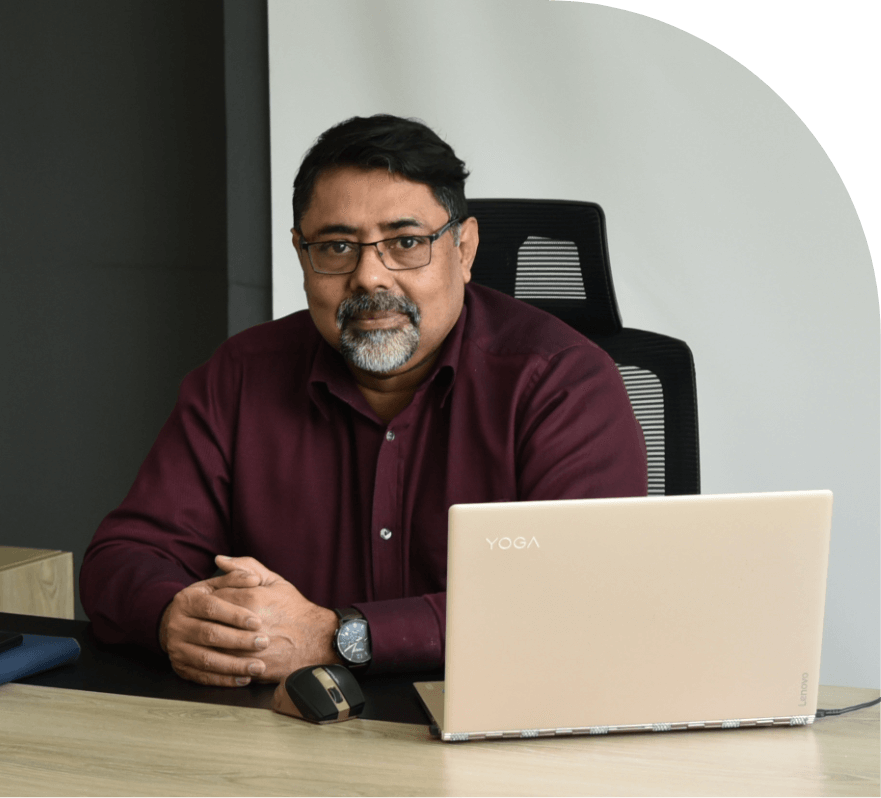
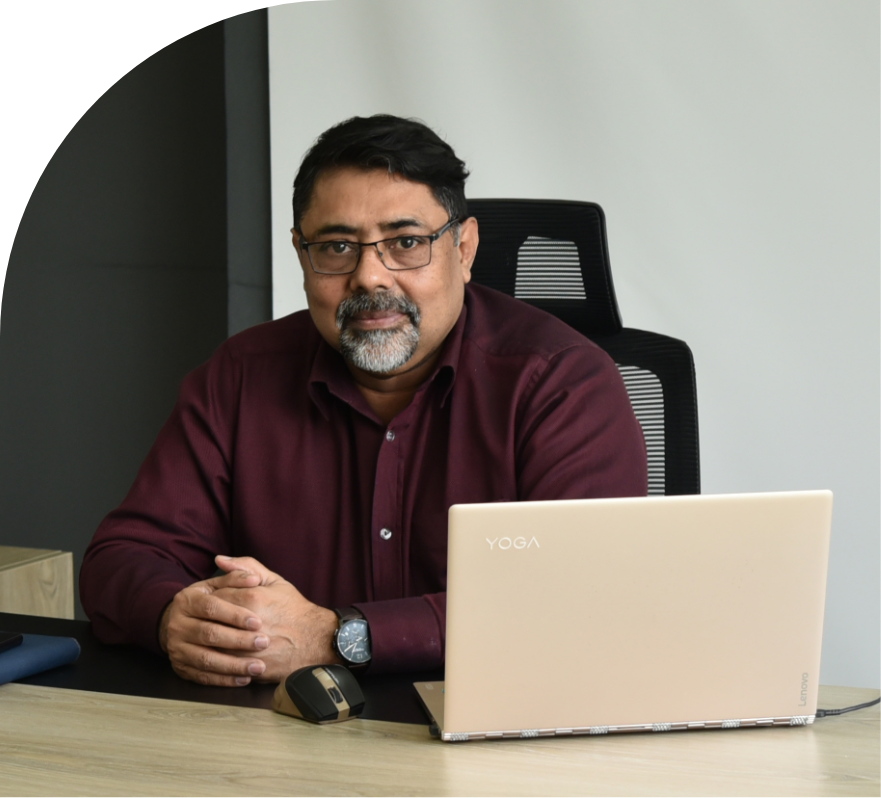
hello

Changed region(s): [[0.6742, 0.0, 1.0, 0.391], [0.0, 0.0, 0.3371, 0.3609]]

diff --git a/index.html b/index.html
@@ -140,13 +140,84 @@
             </div>
         </div>
     </section>
+    
     <!-- video section -->
-    <section class="kalyan-video">
+    <!-- <section class="kalyan-video">
         <div class="kalyan-video-container">
             <iframe width="100%" height="100%" src="https://www.youtube.com/embed/_xch3Ui_RIw?rel=0" title="GRAMEEN Kalyan Healthcare" frameborder="0" allow="accelerometer; autoplay; clipboard-write; encrypted-media; gyroscope; picture-in-picture" allowfullscreen></iframe> 
         </div>
+    </section> -->
+    
+    <!-- people -->
+    <section class="people-section">
+        <!-- people leaf -->
+        <div class="people-leaf">
+            <img src="./assets/people-leaf.png" alt="people-leaf">
+        </div>
+        <!-- people yunus -->
+        <div class="people-yunus-container">
+            <div class="row flex-lg-row flex-column-reverse">
+                <div class="col-lg-6">
+                    <div class="yunus-content">
+                        <!-- <div>
+                            <h2 data-aos="fade-up" data-aos-anchor-placement="bottom-bottom" data-aos-duration="500">The Vision for Healthier Tomorrow</h2>
+                        </div> -->
+                        <div class="yunus-content-details speech-triangle" data-aos="fade-up" data-aos-anchor-placement="bottom-bottom" data-aos-duration="500">
+                            <!-- <p>We are on a mission to serve the low-income population with better quality and maximum convenience.
+                                Grameen Kalyan provides a one-of-a-kind solution that operates in community-based health centres in hard
+                                to access rural areas. Currently, 140 health centres are active in 30 districts across Bangladesh and
+                                serving more than 7.8 million people annually. We proudly celebrate 25 years of our glorious journey and
+                                aim to expand with improved quality of services and grow exponentially.</p> -->
+                            <p>গ্রামীণ অঞ্চলের প্রান্তিক জনগোষ্ঠীর প্রাথমিক স্বাস্থ্যসেবায় সুদূরপ্রসারী পরিবর্তন আনতে রোগ নির্ণয়, চিকিৎসা ব্যবস্থাপনা, তথ্য প্রযুক্তির যথাযথ প্রয়োগ এবং সারা দেশে সাশ্রয়ী মূল্যে মানসম্পন্ন সেবা প্রদান করাই গ্রামীণ কল্যাণ-এর অঙ্গীকার।</p>
+                        </div>
+                        <div class="yunus-designation" data-aos="fade-up" data-aos-anchor-placement="bottom-bottom" data-aos-duration="900">
+                            <h6>Professor Muhammad Yunus</h6>
+                            <small>2006 Nobel Peace Laureate</small>
+                        </div>
+                        <!-- <div class="yunus-btn" data-aos="fade-up" data-aos-anchor-placement="bottom-bottom" data-aos-duration="900">
+                            <button>read more</button>
+                        </div> -->
+                    </div>
+                </div>
+                <div class="col-lg-6">
+                    <div>
+                        <img src="./assets/people-yunus.png" alt="yunus">
+                    </div>
+                </div>
+            </div>
+        </div>
+        <!-- people moin -->
+        <div class="people-moin-container">
+            <div class="row">
+                <div class="col-lg-6">
+                    <div>
+                        <img src="./assets/people-moin.png" alt="moin">
+                    </div>
+                </div>
+                <div class="col-lg-6">
+                    <div class="moin-content">
+                        <!-- <div>
+                            <h2 data-aos="fade-up" data-aos-anchor-placement="bottom-bottom" data-aos-duration="500">Thriving for Inclusive & Innovative Healthcare</h2>
+                        </div> -->
+                        <div class="moin-content-details" data-aos="fade-up" data-aos-anchor-placement="bottom-bottom" data-aos-duration="500">
+                            <p>Grameen Kalyan believes in trust, quality and innovation in delivering services. We are on a mission to transform healthcare in Bangladesh at primary, secondary, and tertiary levels. We exist to provide affordable and quality healthcare and well-being services in unreached communities at the bottom of the pyramid, empowering them to get out of the poverty cycle.</p>
+                        </div>
+                        <div class="moin-designation" data-aos="fade-up" data-aos-anchor-placement="bottom-bottom" data-aos-duration="900">
+                            <h6>Moin Chowdhury</h6>
+                            <small>Managing Director, Grameen Kalyan</small>
+                        </div>
+                        <!-- <div class="yunus-btn" class="yunus-designation" data-aos="fade-up" data-aos-anchor-placement="bottom-bottom" data-aos-duration="900">
+                            <button>read more</button>
+                        </div> -->
+                    </div>
+                </div>
+            </div>
+        </div>
+        <!-- line leaf -->
+        <div class="line-leaf">
+            <img src="./assets/line-leaf.png" alt="">
+        </div>
     </section>
-
     <!-- annual report section -->
     <section class="annual-report-section">
         <div class="annual-top">
@@ -198,76 +269,7 @@
             </div>
         </div>
     </section>
-    <section class="people-section">
-        <!-- people leaf -->
-        <div class="people-leaf">
-            <img src="./assets/people-leaf.png" alt="people-leaf">
-        </div>
-        <!-- people yunus -->
-        <div class="people-yunus-container">
-            <div class="row">
-                <div class="col-lg-6">
-                    <div>
-                        <img src="./assets/people-yunus.png" alt="yunus">
-                    </div>
-                </div>
-                <div class="col-lg-6">
-                    <div class="yunus-content">
-                        <!-- <div>
-                            <h2 data-aos="fade-up" data-aos-anchor-placement="bottom-bottom" data-aos-duration="500">The Vision for Healthier Tomorrow</h2>
-                        </div> -->
-                        <div class="yunus-content-details speech-triangle" data-aos="fade-up" data-aos-anchor-placement="bottom-bottom" data-aos-duration="500">
-                            <!-- <p>We are on a mission to serve the low-income population with better quality and maximum convenience.
-                                Grameen Kalyan provides a one-of-a-kind solution that operates in community-based health centres in hard
-                                to access rural areas. Currently, 140 health centres are active in 30 districts across Bangladesh and
-                                serving more than 7.8 million people annually. We proudly celebrate 25 years of our glorious journey and
-                                aim to expand with improved quality of services and grow exponentially.</p> -->
-                            <p>গ্রামীণ অঞ্চলের প্রান্তিক জনগোষ্ঠীর প্রাথমিক স্বাস্থ্যসেবায় সুদূরপ্রসারী পরিবর্তন আনতে রোগ নির্ণয়, চিকিৎসা ব্যবস্থাপনা, তথ্য প্রযুক্তির যথাযথ প্রয়োগ এবং সারা দেশে সাশ্রয়ী মূল্যে মানসম্পন্ন সেবা প্রদান করাই গ্রামীণ কল্যাণ-এর অঙ্গীকার।</p>
-                        </div>
-                        <div class="yunus-designation" data-aos="fade-up" data-aos-anchor-placement="bottom-bottom" data-aos-duration="900">
-                            <h6>Professor Muhammad Yunus</h6>
-                            <small>2006 Nobel Peace Laureate</small>
-                        </div>
-                        <!-- <div class="yunus-btn" data-aos="fade-up" data-aos-anchor-placement="bottom-bottom" data-aos-duration="900">
-                            <button>read more</button>
-                        </div> -->
-                    </div>
-                </div>
-            </div>
-        </div>
-        <!-- people moin -->
-        <div class="people-moin-container">
-            <div class="row flex-lg-row flex-column-reverse">
-                <div class="col-lg-6">
-                    <div class="moin-content">
-                        <!-- <div>
-                            <h2 data-aos="fade-up" data-aos-anchor-placement="bottom-bottom" data-aos-duration="500">Thriving for Inclusive & Innovative Healthcare</h2>
-                        </div> -->
-                        <div class="moin-content-details" data-aos="fade-up" data-aos-anchor-placement="bottom-bottom" data-aos-duration="500">
-                            <p>Grameen Kalyan believes in trust, quality and innovation in delivering services. We are on a mission to transform healthcare in Bangladesh at primary, secondary, and tertiary levels. We exist to provide affordable and quality healthcare and well-being services in unreached communities at the bottom of the pyramid, empowering them to get out of the poverty cycle.</p>
-                        </div>
-                        <div class="moin-designation" data-aos="fade-up" data-aos-anchor-placement="bottom-bottom" data-aos-duration="900">
-                            <h6>Moin Chowdhury</h6>
-                            <small>Managing Director, Grameen Kalyan</small>
-                        </div>
-                        <!-- <div class="yunus-btn" class="yunus-designation" data-aos="fade-up" data-aos-anchor-placement="bottom-bottom" data-aos-duration="900">
-                            <button>read more</button>
-                        </div> -->
-                    </div>
-                </div>
-                <div class="col-lg-6">
-                    <div>
-                        <img src="./assets/people-moin.png" alt="moin">
-                    </div>
-                </div>
-            </div>
-        </div>
-        <!-- line leaf -->
-        <div class="line-leaf">
-            <img src="./assets/line-leaf.png" alt="">
-        </div>
-    </section>
-
+    
     <!-- micro health -->
     <section class="micro-health">
         <div>
@@ -381,11 +383,10 @@
                     </div>
                     <div class="footer-content-social">
                         <div class="social-collection">
-                            <a href="/"><i class="fab fa-facebook-f"></i></a>
-                            <a href="/"><i class="fab fa-instagram"></i></a>
-                            <a href="/"><i class="fab fa-twitter"></i></a>
-                            <a href="/"><i class="fab fa-youtube"></i></a>
-                            <a href="/"><i class="fab fa-linkedin-in"></i></a>
+                            <a href="https://www.facebook.com/GrameenKalyan.Official"><i class="fab fa-facebook-f"></i></a>
+                            <a href="https://www.instagram.com/grameenkalyan/?hl=en"><i class="fab fa-instagram"></i></a>
+                            <a href="https://twitter.com/GrameenKalyan"><i class="fab fa-twitter"></i></a>
+                            <a href="https://www.linkedin.com/company/grameenkalyan/"><i class="fab fa-linkedin-in"></i></a>
                         </div>
                         <div>
                             <p>Copyright © 2021 Grameen Kalyan. All Rights Reserved</p>

diff --git a/styles/index.scss b/styles/index.scss
@@ -360,9 +360,10 @@
         height: 720px;
     }
 }
+
 .annual-report-section {
     .annual-top {
-        padding: 10%;
+        padding: 5% 10% 10% 10%;
         color: $primaryColor;
         text-align: center;
         h4 {
@@ -428,12 +429,12 @@
 }
 
 .people-section {
-    padding: 10% 5% 15% 5%;
+    padding: 10% 5% 10% 5%;
     position: relative;
     .people-leaf {
         position: absolute;
         top: 0;
-        left: 0;
+        right: 0;
         z-index: -1;
         img {
             height: 60vmin;
@@ -441,7 +442,7 @@
     }
     .line-leaf {
         position: absolute;
-        right: 0;
+        left: 0;
         top: 75%;
         z-index: -1;
         transform: translateY(-63.5%);
@@ -514,21 +515,21 @@
                     content: "";
                     position: absolute;
                     bottom: -25px;
-                    left: 60px;
+                    right: 60px;
                     width: 50px;
                     height: 25px;
                     background-color: $primaryColor;
-                    clip-path: polygon(0 0, 0% 100%, 100% 0);
+                    clip-path: polygon(0 0, 100% 100%, 100% 0);
                 }
                 &::after {
                     content: "";
                     position: absolute;
                     bottom: -22px;
-                    left: 62px;
+                    right: 62px;
                     width: 43px;
                     height: 22px;
                     background-color: $white;
-                    clip-path: polygon(0 0, 0% 100%, 100% 0);
+                    clip-path: polygon(0 0, 100% 100%, 100% 0);
                 }
                 p {
                     font-size: 16px;
@@ -607,21 +608,21 @@
                     content: "";
                     position: absolute;
                     bottom: -25px;
-                    right: 60px;
+                    left: 60px;
                     width: 50px;
                     height: 25px;
                     background-color: $primaryColor;
-                    clip-path: polygon(0 0, 100% 100%, 100% 0);
+                    clip-path: polygon(0 0, 0% 100%, 100% 0);
                 }
                 &::after {
                     content: "";
                     position: absolute;
                     bottom: -22px;
-                    right: 62px;
+                    left: 62px;
                     width: 43px;
                     height: 22px;
                     background-color: $white;
-                    clip-path: polygon(0 0, 100% 100%, 100% 0);
+                    clip-path: polygon(0 0, 0% 100%, 100% 0);
                 }
                 p {
                     font-size: 16px;
@@ -671,6 +672,7 @@
 }
 .micro-health {
     position: relative;
+    padding-top: 10%;
     img {
         width: 100%;
         z-index: -1;

diff --git a/styles/index.css b/styles/index.css
@@ -435,7 +435,7 @@ body {
 }
 
 .annual-report-section .annual-top {
-  padding: 10%;
+  padding: 5% 10% 10% 10%;
   color: #0b612d;
   text-align: center;
 }
@@ -516,14 +516,14 @@ body {
 }
 
 .people-section {
-  padding: 10% 5% 15% 5%;
+  padding: 10% 5% 10% 5%;
   position: relative;
 }
 
 .people-section .people-leaf {
   position: absolute;
   top: 0;
-  left: 0;
+  right: 0;
   z-index: -1;
 }
 
@@ -533,7 +533,7 @@ body {
 
 .people-section .line-leaf {
   position: absolute;
-  right: 0;
+  left: 0;
   top: 75%;
   z-index: -1;
   -webkit-transform: translateY(-63.5%);
@@ -633,24 +633,24 @@ body {
   content: "";
   position: absolute;
   bottom: -25px;
-  left: 60px;
+  right: 60px;
   width: 50px;
   height: 25px;
   background-color: #0b612d;
-  -webkit-clip-path: polygon(0 0, 0% 100%, 100% 0);
-          clip-path: polygon(0 0, 0% 100%, 100% 0);
+  -webkit-clip-path: polygon(0 0, 100% 100%, 100% 0);
+          clip-path: polygon(0 0, 100% 100%, 100% 0);
 }
 
 .people-section .people-yunus-container .yunus-content .yunus-content-details::after {
   content: "";
   position: absolute;
   bottom: -22px;
-  left: 62px;
+  right: 62px;
   width: 43px;
   height: 22px;
   background-color: #ffffff;
-  -webkit-clip-path: polygon(0 0, 0% 100%, 100% 0);
-          clip-path: polygon(0 0, 0% 100%, 100% 0);
+  -webkit-clip-path: polygon(0 0, 100% 100%, 100% 0);
+          clip-path: polygon(0 0, 100% 100%, 100% 0);
 }
 
 .people-section .people-yunus-container .yunus-content .yunus-content-details p {
@@ -754,24 +754,24 @@ body {
   content: "";
   position: absolute;
   bottom: -25px;
-  right: 60px;
+  left: 60px;
   width: 50px;
   height: 25px;
   background-color: #0b612d;
-  -webkit-clip-path: polygon(0 0, 100% 100%, 100% 0);
-          clip-path: polygon(0 0, 100% 100%, 100% 0);
+  -webkit-clip-path: polygon(0 0, 0% 100%, 100% 0);
+          clip-path: polygon(0 0, 0% 100%, 100% 0);
 }
 
 .people-section .people-moin-container .moin-content .moin-content-details::after {
   content: "";
   position: absolute;
   bottom: -22px;
-  right: 62px;
+  left: 62px;
   width: 43px;
   height: 22px;
   background-color: #ffffff;
-  -webkit-clip-path: polygon(0 0, 100% 100%, 100% 0);
-          clip-path: polygon(0 0, 100% 100%, 100% 0);
+  -webkit-clip-path: polygon(0 0, 0% 100%, 100% 0);
+          clip-path: polygon(0 0, 0% 100%, 100% 0);
 }
 
 .people-section .people-moin-container .moin-content .moin-content-details p {
@@ -828,6 +828,7 @@ body {
 
 .micro-health {
   position: relative;
+  padding-top: 10%;
 }
 
 .micro-health img {
